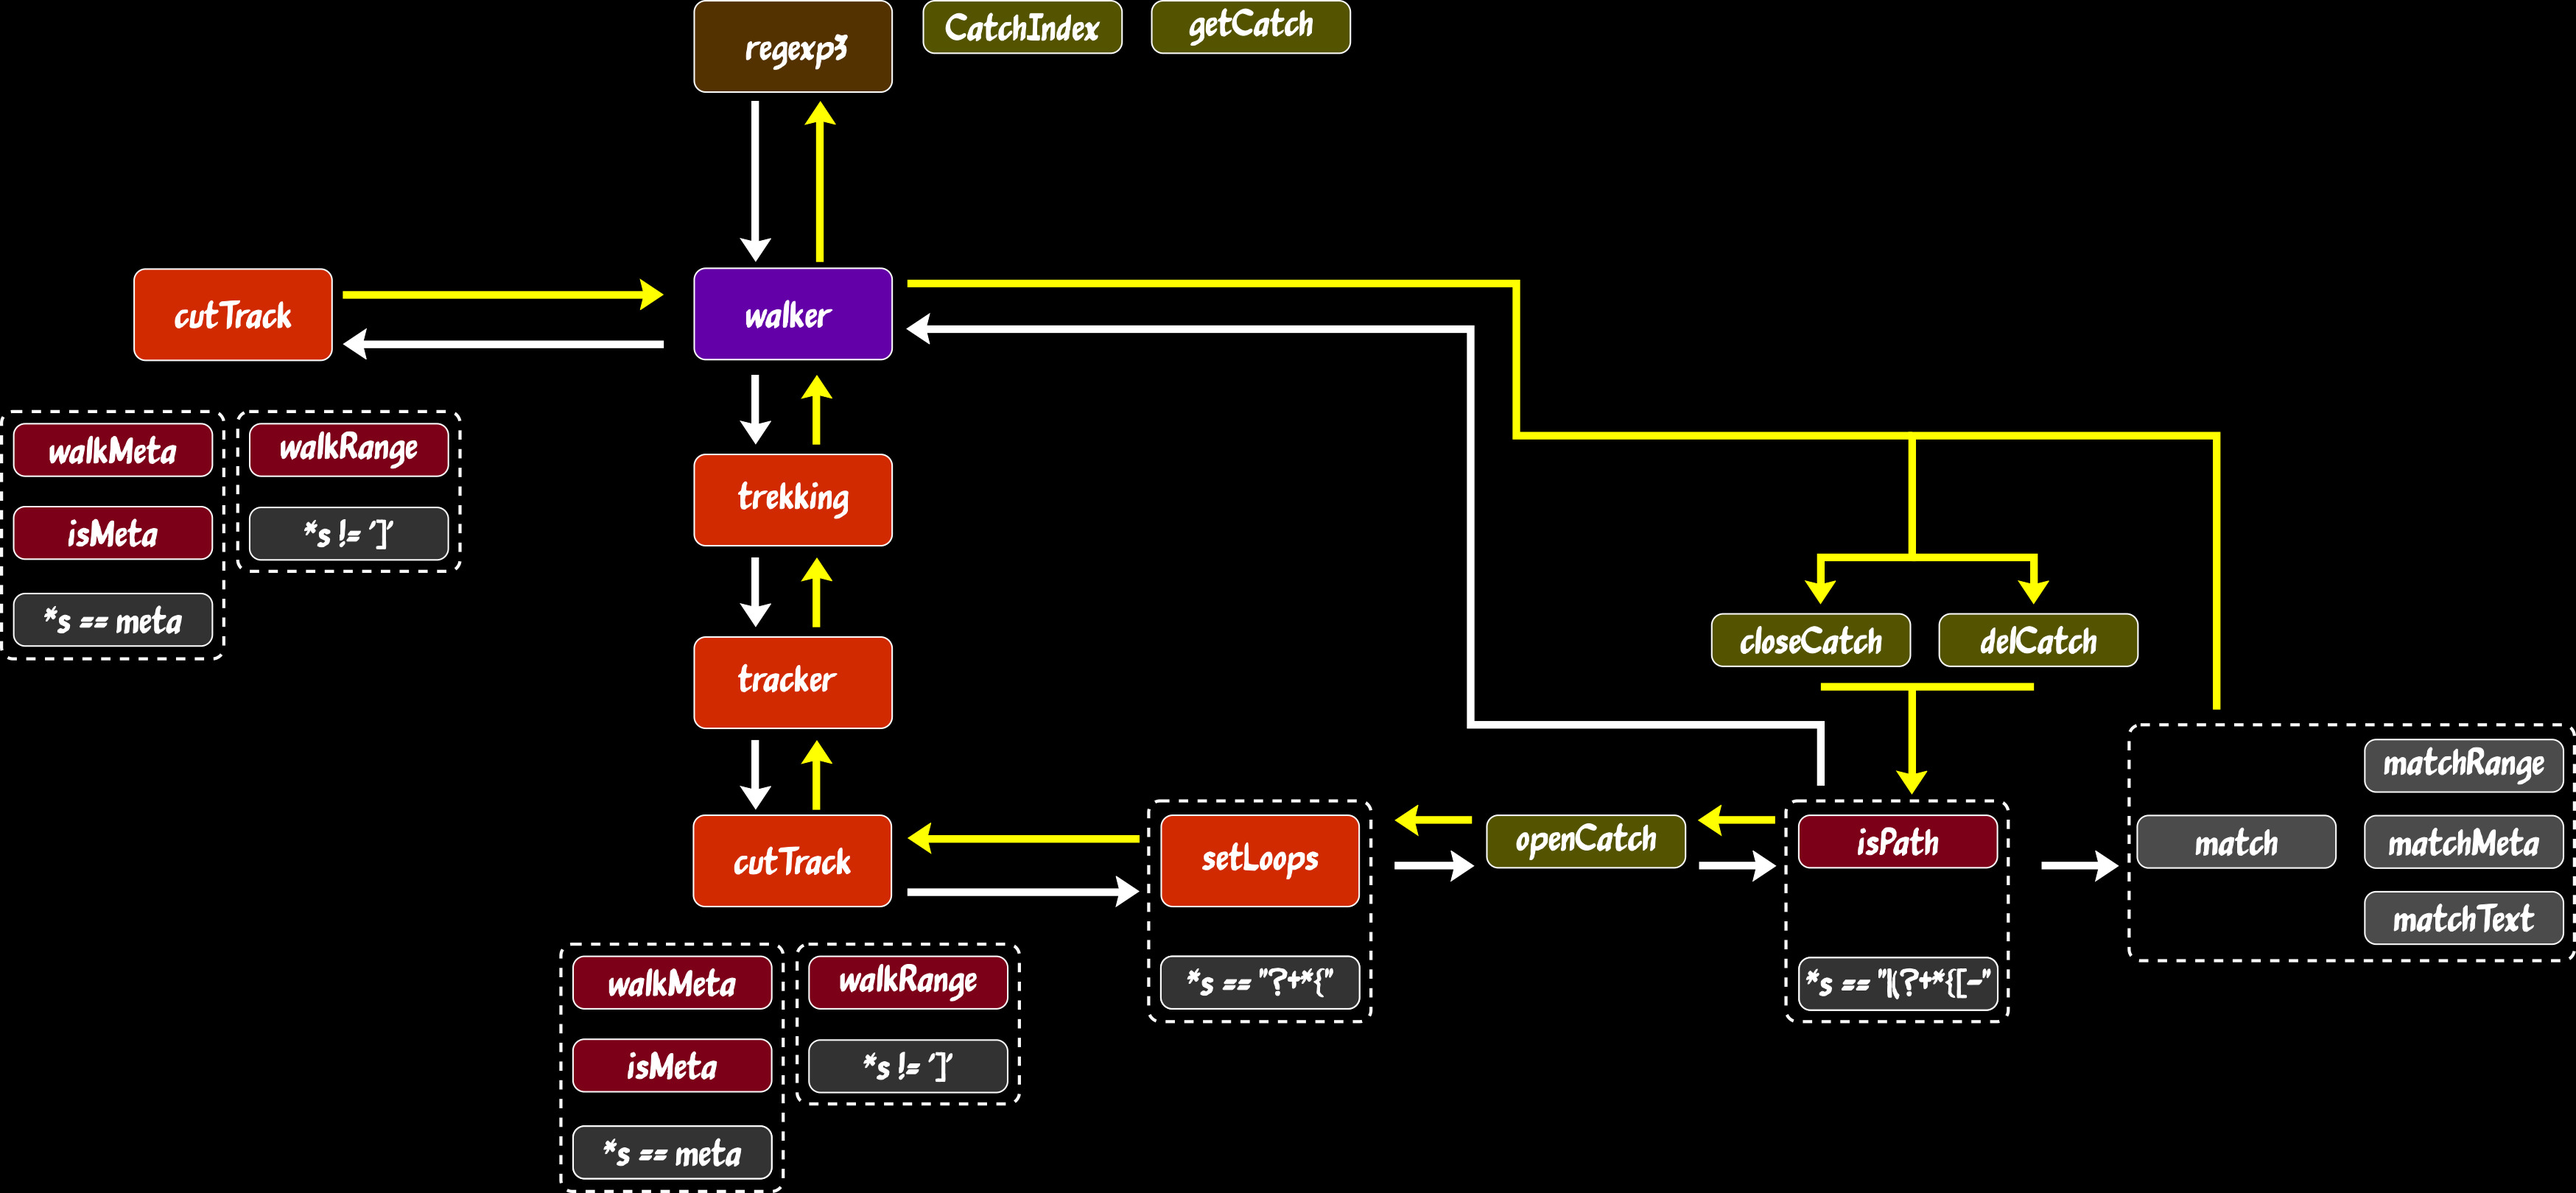
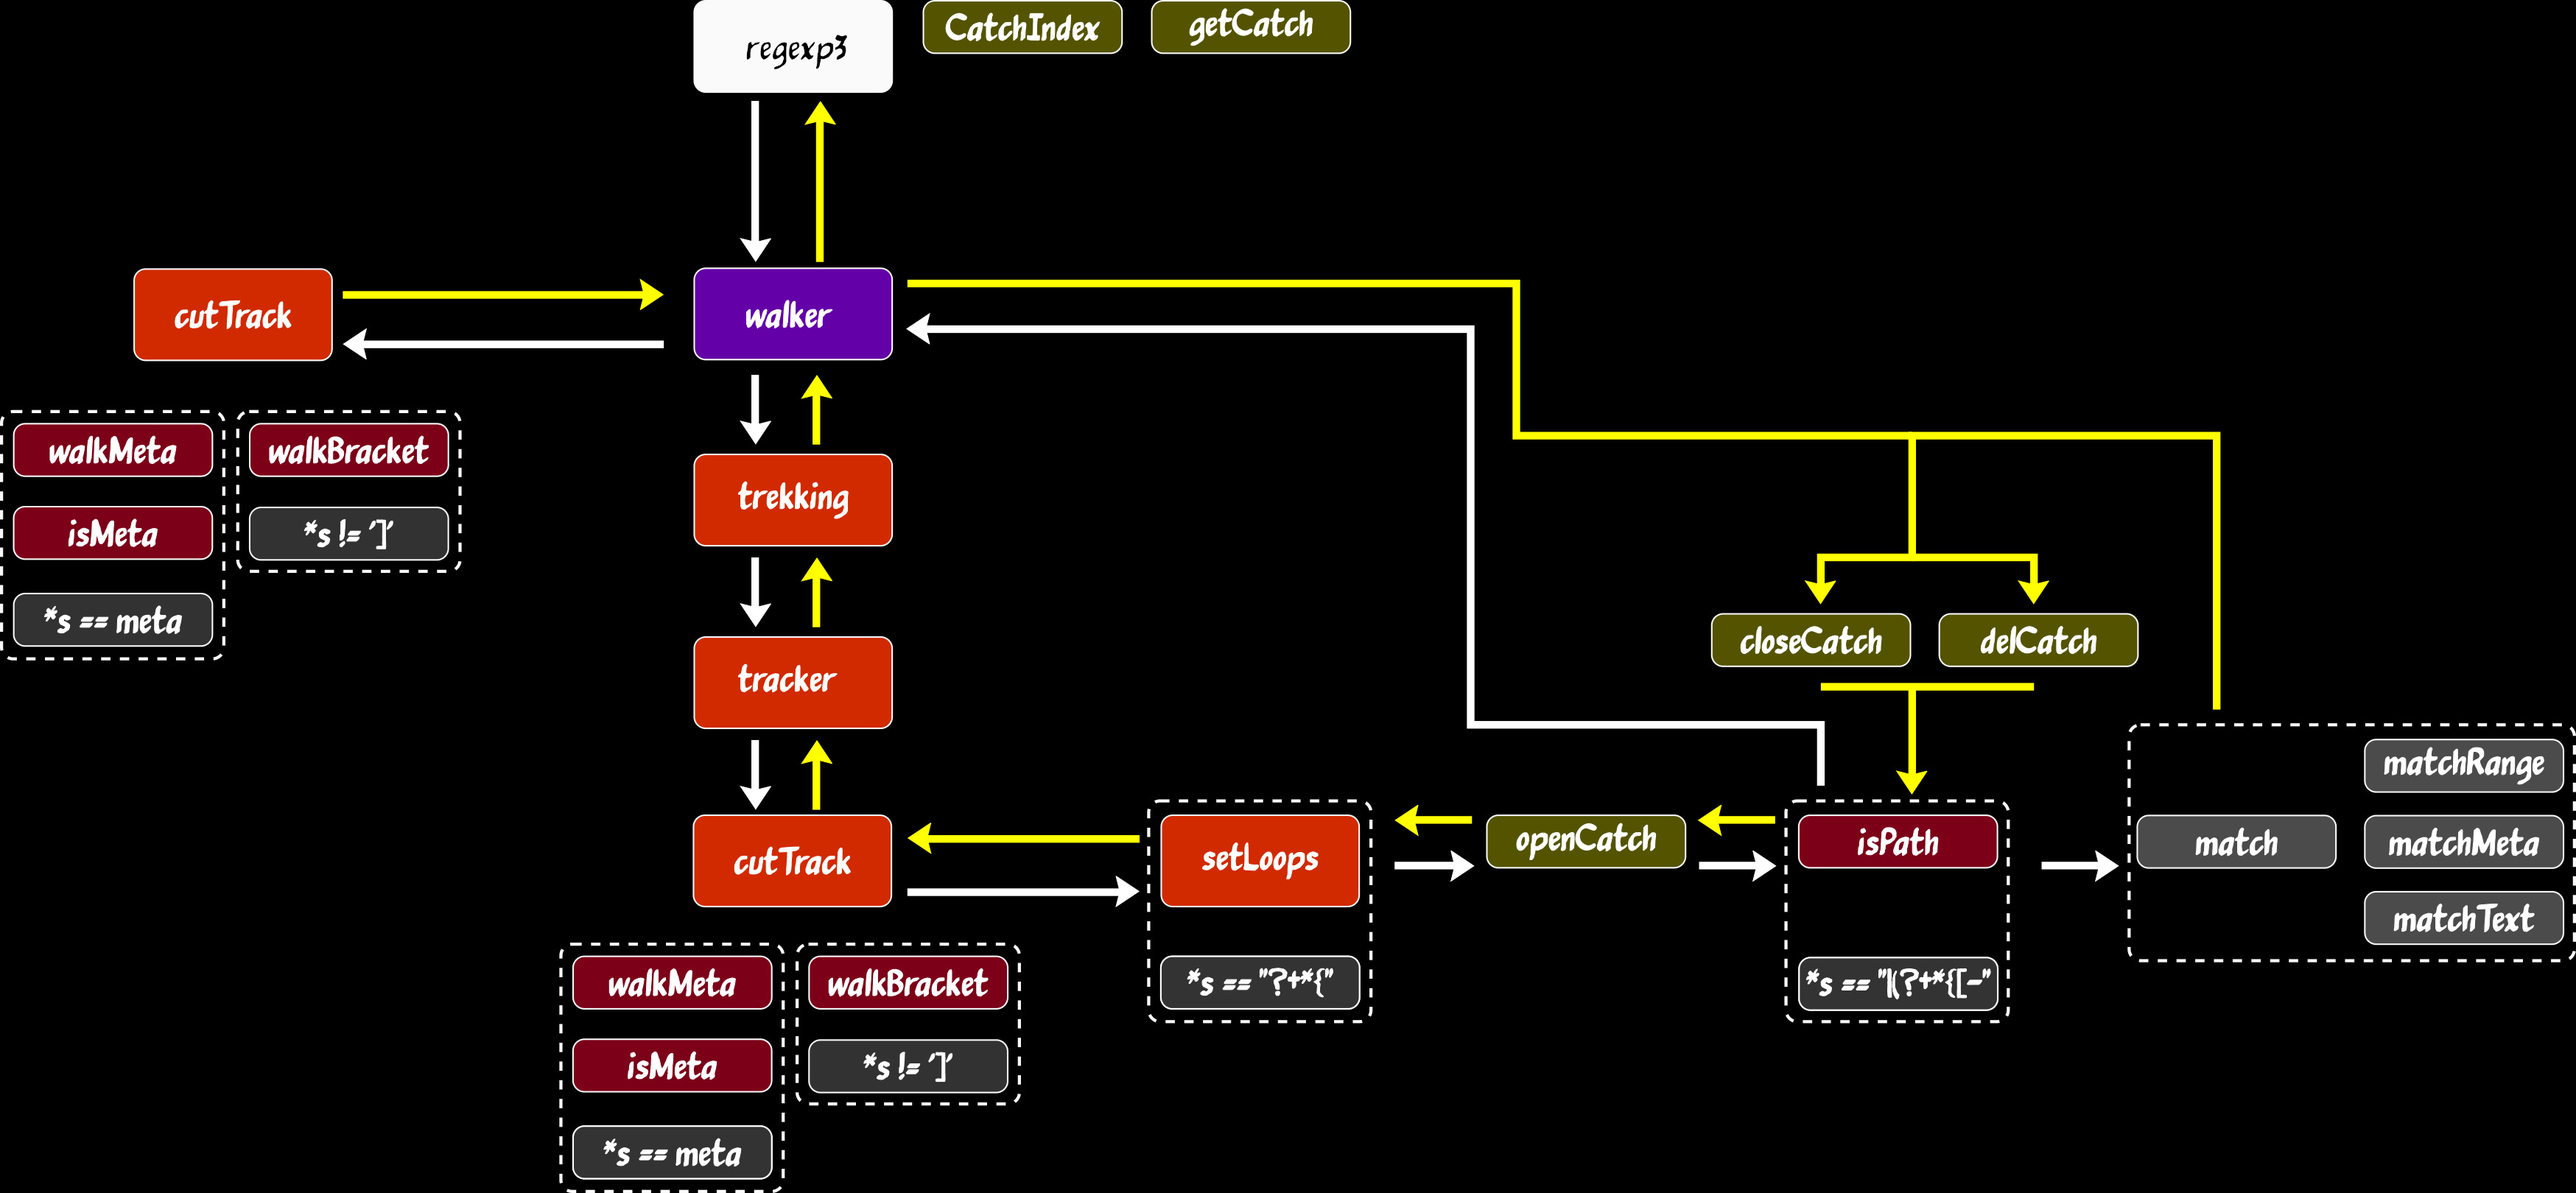
-------------------------------------------------------    v0.80 - RANGE       ->  BRACKET            matchRange  ->  matchBracket            Range       ->  LoopsRange            range       ->  loopsRange            add             trackByLen()
added some text to readme
           added some test to test.c
-------------------------------------------------------
   modified:   readme.org
   modified:   regexp3.c
   modified:   regexp3.jpg
   modified:   regexp3.svg
   modified:   test.c
-------------------------------------------------------
Sonic-Boom
-------------------------------------------------------
   Hiromi Uehara : Duet
   King Crimson  : THRAK
-------------------------------------------------------

Changed region(s): [[0.2494, 0.0, 0.374, 0.0926], [0.0935, 0.3395, 0.187, 0.4012], [0.3117, 0.8025, 0.4052, 0.8333]]

diff --git a/regexp3.c b/regexp3.c
@@ -1,4 +1,3 @@
-#include <stdio.h>
 #include <string.h>
 #include <stdlib.h>
 #include <ctype.h>
@@ -16,17 +15,17 @@ struct CATch {
   int   index;
 } Catch;
 
-struct Range {
+struct LoopsRange {
   int a, b;
 };
 
-enum PTYPE { PATH, HOOK, SIMPLE, RANGE, RANGEAB, META, POINT };
+enum PTYPE { PATH, HOOK, SIMPLE, BRACKET, RANGEAB, META, POINT };
 
 struct Path {
   int   len;
   char *ptr;
   enum   PTYPE type;
-  struct Range range;
+  struct LoopsRange loopsRange;
 };
 
 struct PathLine {
@@ -35,25 +34,24 @@ struct PathLine {
   int   len;
 };
 
-int   walker     ( struct Path   path, struct PathLine *pathLine             );
-int   cutTrack   ( struct Path  *path, struct Path     *track,    int type   );
-int   trekking   ( struct Path  *path, struct PathLine *pathLine             );
-int   tracker    ( struct Path  *path, struct Path     *track                );
-int   walkMeta   (                            char     *str                  );
-int   walkRange  (                            char     *str                  );
-int   isMeta     (                            char     *str                  );
-int   isPath     ( struct Path *track                                        );
-int   countDigits(                                                int number );
-void  setLoops   ( struct Path *track, struct Path     *path                 );
-void  openCatch  ( struct Path *track, struct PathLine *pathLine, int *index );
-void  closeCatch ( struct Path *track, struct PathLine *pathLine, int  index );
-void  delCatch   ( struct Path *track,                            int  index );
-int   CatchIndex (                                                           );
-char *getCatch   (                                                int  index );
-int   match      ( struct Path *text, struct PathLine *pathLine              );
-int   matchRange ( struct Path *text, struct PathLine *pathLine              );
-int   matchMeta  ( struct Path *text,        char     *line                  );
-int   matchText  ( struct Path *text,        char     *line                  );
+int   walker      ( struct Path   path, struct PathLine *pathLine             );
+int   cutTrack    ( struct Path  *path, struct Path     *track,    int type   );
+int   trekking    ( struct Path  *path, struct PathLine *pathLine             );
+int   tracker     ( struct Path  *path, struct Path     *track                );
+int   walkMeta    (                            char     *str                  );
+int   walkBracket (                            char     *str                  );
+int   isMeta      (                            char     *str                  );
+int   isPath      ( struct Path *track                                        );
+void  setLoops    ( struct Path *track, struct Path     *path                 );
+void  openCatch   ( struct Path *track, struct PathLine *pathLine, int *index );
+void  closeCatch  ( struct Path *track, struct PathLine *pathLine, int  index );
+void  delCatch    ( struct Path *track,                            int  index );
+int   CatchIndex  (                                                           );
+char *getCatch    (                                                int  index );
+int   match       ( struct Path *text, struct PathLine *pathLine              );
+int   matchBracket( struct Path *text, struct PathLine *pathLine              );
+int   matchMeta   ( struct Path *text,        char     *line                  );
+int   matchText   ( struct Path *text,        char     *line                  );
 
 int regexp3( char *line, char *exp ){
   struct Path     path;
@@ -85,7 +83,7 @@ int regexp3( char *line, char *exp ){
     result = walker( path, &pathLine );
 
     if( atTheEnd && result && pathLine.pos != pathLine.len )
-        result = 0;
+      result = 0;
   }
 
   return result;
@@ -93,7 +91,6 @@ int regexp3( char *line, char *exp ){
 
 int walker( struct Path path, struct PathLine *pathLine ){
   struct Path track;
-  track.type = path.type;
 
   while( cutTrack( &path, &track, PATH ) )
     if( walker( track,  pathLine ) )
@@ -104,20 +101,21 @@ int walker( struct Path path, struct PathLine *pathLine ){
 
 int cutTrack( struct Path *path, struct Path *track, int type ){
   int i, deep, cut;
-  track->ptr = path->ptr + (type == PATH ? 0 : 1);
-  track->len = path->len;
+  track->ptr  = path->ptr + (type == PATH ? 0 : 1);
+  track->len  = path->len;
+  track->type = path->type;
 
   for( i = deep = 0; i < path->len; i++ ){
     i += walkMeta ( path->ptr + i );
-    i += type == RANGE ? 0 : walkRange( path->ptr + i );
+    i += type == BRACKET ? 0 : walkBracket( path->ptr + i );
 
     if( path->ptr[i] == '(' ) deep++;
     if( path->ptr[i] == ')' ) deep--;
 
     switch( type ){
-    case HOOK  : cut = deep == 0; break;
-    case PATH  : cut = deep == 0 && path->ptr[i] == '|'; break;
-    case RANGE : cut = path->ptr[i] == ']'; break;
+    case HOOK    : cut = deep == 0; break;
+    case PATH    : cut = deep == 0 && path->ptr[i] == '|'; break;
+    case BRACKET : cut = path->ptr[i] == ']'; break;
     }
 
     if( cut && i < path->len){
@@ -139,11 +137,11 @@ int trekking( struct Path *path, struct PathLine *pathLine ){
     openCatch( &track, pathLine, &iCatch);
 
     if( isPath( &track ) ){
-      for( loop = 0; loop < track.range.b && walker( track, pathLine ); ) loop++;
+      for( loop = 0; loop < track.loopsRange.b && walker( track, pathLine ); ) loop++;
     } else {
       len = (track.type == SIMPLE || track.type == HOOK) ? track.len : 1;
 
-      for( loop = 0; loop < track.range.b  &&
+      for( loop = 0; loop < track.loopsRange.b     &&
                      pathLine->pos < pathLine->len && match( &track, pathLine ); ){
         pathLine->pos += len;
         npos          += len;
@@ -151,7 +149,7 @@ int trekking( struct Path *path, struct PathLine *pathLine ){
       }
     }
 
-    if( loop < track.range.a || loop > track.range.b ){
+    if( loop < track.loopsRange.a ){
       pathLine->pos -= npos;
       delCatch( &track, iCatch );
       return FALSE;
@@ -159,6 +157,13 @@ int trekking( struct Path *path, struct PathLine *pathLine ){
   }
 
   return TRUE;
+}
+
+void trackByLen( struct Path *path, struct Path *track, int len, int type ){
+  track->type  = type;
+  track->len   = len;
+  path->ptr   += len;
+  path->len   -= len;
 }
 
 int tracker( struct Path *path, struct Path *track ){
@@ -170,24 +175,15 @@ int tracker( struct Path *path, struct Path *track ){
   for( i = 0; i < path->len; i++ ){
     if( strchr( ".[(", path->ptr[i] ) || isMeta( path->ptr + i ) ){
       if( i > 0 ){
-        track->len = &path->ptr[i] - track->ptr;
-        path->ptr = path->ptr + i;
-        path->len = path->len - i;
+        trackByLen( path, track, i, SIMPLE );
       } else if( isMeta( path->ptr ) ){
-        track->type = META;
-        track->ptr++;
-        track->len = 1;
-        path->ptr += 2;
-        path->len -= 2;
+        trackByLen( path, track, 2, META );
       } else if( *path->ptr == '.' ){
-        track->type = POINT;
-        track->len = 1;
-        path->ptr += 1;
-        path->len -= 1;
+        trackByLen( path, track, 1, POINT );
       } else if( *path->ptr == '(' ){
         cutTrack( path, track, HOOK );
       } else if( *path->ptr == '[' ){
-        cutTrack( path, track, RANGE );
+        cutTrack( path, track, BRACKET );
       }
 
       setLoops( track, path );
@@ -201,14 +197,9 @@ int tracker( struct Path *path, struct Path *track ){
         path->len = path->len - i + 1;
       } else if( i == 1 ){
         if( path->ptr[i] == '-' ){
-          track->type = RANGEAB;
-          track->len = 1;  // prevend an infinite loop
-          path->ptr += 3;
-          path->len -= 3;
+          trackByLen( path, track, 3, RANGEAB );
         } else {
-          track->len = 1;
-          path->ptr += 1;
-          path->len -= 1;
+          trackByLen( path, track, 1, SIMPLE );
         }
       }
 
@@ -218,8 +209,8 @@ int tracker( struct Path *path, struct Path *track ){
   }
 
   if( track->len > 0 ){
-    path->ptr = path->ptr + i;
-    path->len = 0;
+    path->ptr += i;
+    path->len  = 0;
     setLoops( track, path );
     return TRUE;
   }
@@ -236,7 +227,7 @@ int walkMeta( char *str ){
   return i;
 }
 
-int walkRange( char *str ){
+int walkBracket( char *str ){
   int i = 0;
   if( *str == '[' )
     while( str[i] != ']' )
@@ -247,13 +238,13 @@ int walkRange( char *str ){
 
 int isMeta( char *str ){
   if( *str == '\\' )
-    return strchr( "|^$()[].?+*{}-dDwWsSAZbB", str[ 1 ] ) != 0;
+    return strchr( "|^$()[].?+*{}-dDwWsS", str[ 1 ] ) != 0;
 
   return FALSE;
 }
 
 int isPath( struct Path *track ){
-  if( track->type == META || track->type == RANGE ) return FALSE;
+  if( track->type == META || track->type == BRACKET || track->type == RANGEAB ) return FALSE;
 
   for( int i = 0; i < track->len; i++ )
     if(  isMeta( track->ptr + i ) || strchr( "|(?+*{[-", track->ptr[i] ) )
@@ -272,18 +263,18 @@ int countDigits( int number ){
 
 void setLoops( struct Path *track, struct Path *path ){
   int len = 0;
-  track->range.a = 1; track->range.b = 1;
+  track->loopsRange.a = 1; track->loopsRange.b = 1;
   if( path->len )
     if( strchr( "?+*{", *path->ptr ))
       switch( *path->ptr ){
-      case '?' : len = 1; track->range.a = 0; track->range.b =   1; break;
-      case '+' : len = 1; track->range.a = 1; track->range.b = INF; break;
-      case '*' : len = 1; track->range.a = 0; track->range.b = INF; break;
+      case '?' : len = 1; track->loopsRange.a = 0; track->loopsRange.b =   1; break;
+      case '+' : len = 1; track->loopsRange.a = 1; track->loopsRange.b = INF; break;
+      case '*' : len = 1; track->loopsRange.a = 0; track->loopsRange.b = INF; break;
       case '{' :
-        track->range.a = atoi( path->ptr + 1 ) ;
-        if( path->ptr[ countDigits( track->range.a ) + 1 ] == ',' )
-          track->range.b = atoi( strchr( path->ptr, ',' ) + 1 );
-        else track->range.b = track->range.a;
+        track->loopsRange.a = atoi( path->ptr + 1 ) ;
+        if( path->ptr[ countDigits( track->loopsRange.a ) + 1 ] == ',' )
+          track->loopsRange.b = atoi( strchr( path->ptr, ',' ) + 1 );
+        else track->loopsRange.b = track->loopsRange.a;
         len = strchr( path->ptr, '}' ) - path->ptr + 1;
         break;
       }
@@ -333,7 +324,7 @@ int match( struct Path *text, struct PathLine *pathLine ){
   case POINT  : return pathLine->line[pathLine->pos] != 0;
   case RANGEAB: return pathLine->line[ pathLine->pos ] >= text->ptr[ 0 ] &&
                        pathLine->line[ pathLine->pos ] <= text->ptr[ 2 ];
-  case RANGE  : return matchRange( text, pathLine );
+  case BRACKET: return matchBracket( text, pathLine );
   case META   : return matchMeta( text, pathLine->line + pathLine->pos );
   default     : return matchText( text, pathLine->line + pathLine->pos );
   }
@@ -346,7 +337,7 @@ char * strnchr( char *s, int c, int n ){
   return FALSE;
 }
 
-int matchRange( struct Path *text, struct PathLine *pathLine ){
+int matchBracket( struct Path *text, struct PathLine *pathLine ){
   struct Path track, path = *text;
   int result= 0;
   int reverse = *text->ptr == '^';
@@ -368,10 +359,10 @@ int matchRange( struct Path *text, struct PathLine *pathLine ){
 }
 
 int matchMeta( struct Path *text, char *line ){
-  if( strchr( "|^$()[].?+*{}-", *text->ptr ) )
-    return *line == *text->ptr;
+  if( strchr( "|^$()[].?+*{}-", text->ptr[1] ) )
+    return *line == text->ptr[1];
   else
-    switch( *text->ptr ){
+    switch( text->ptr[1] ){
     case 'd' : return  isdigit(*line); break;
     case 'D' : return !isdigit(*line); break;
     case 'w' : return  isalnum(*line); break;

diff --git a/test.c b/test.c
@@ -22,6 +22,11 @@ int rtest(){
     errs++;                                     \
   }
 
+  TRUE_TEST( "linea simple", "" );
+  TRUE_TEST( "linea simple", "^" );
+  TRUE_TEST( "linea simple", "|" );
+  TRUE_TEST( "linea simple", "()" );
+  TRUE_TEST( "linea simple", "|(|)" );
   TRUE_TEST( "linea simple", "a s" );
   TRUE_TEST( "linea simple", "^linea" );
   TRUE_TEST( "linea simple", "simple$" );
@@ -30,6 +35,8 @@ int rtest(){
   TRUE_TEST( "Handel", "H[eioau]ndel" );
   TRUE_TEST( "Handel", "Ha-zndel" );
   TRUE_TEST( "Handel", "H[1-9a-z]ndel" );
+  TRUE_TEST( "$|)}^", "([$|)}^])+" );
+  TRUE_TEST( "Handel", "H[^eiou]ndel" );
   TRUE_TEST( "Handel", "H[^eiou]ndel" );
   TRUE_TEST( "Handel", "H.ndel" );
   TRUE_TEST( "Hndel", "Ha?ndel" );
@@ -54,6 +61,8 @@ int rtest(){
     errs++;                                     \
   }
 
+  FALSE_TEST( "", "" );
+  FALSE_TEST( "", "expresion" );
   FALSE_TEST( "linea simple", "e s" );
   FALSE_TEST( "lineo simple", "^linea" );
   FALSE_TEST( "linea simple.", "simple$" );
